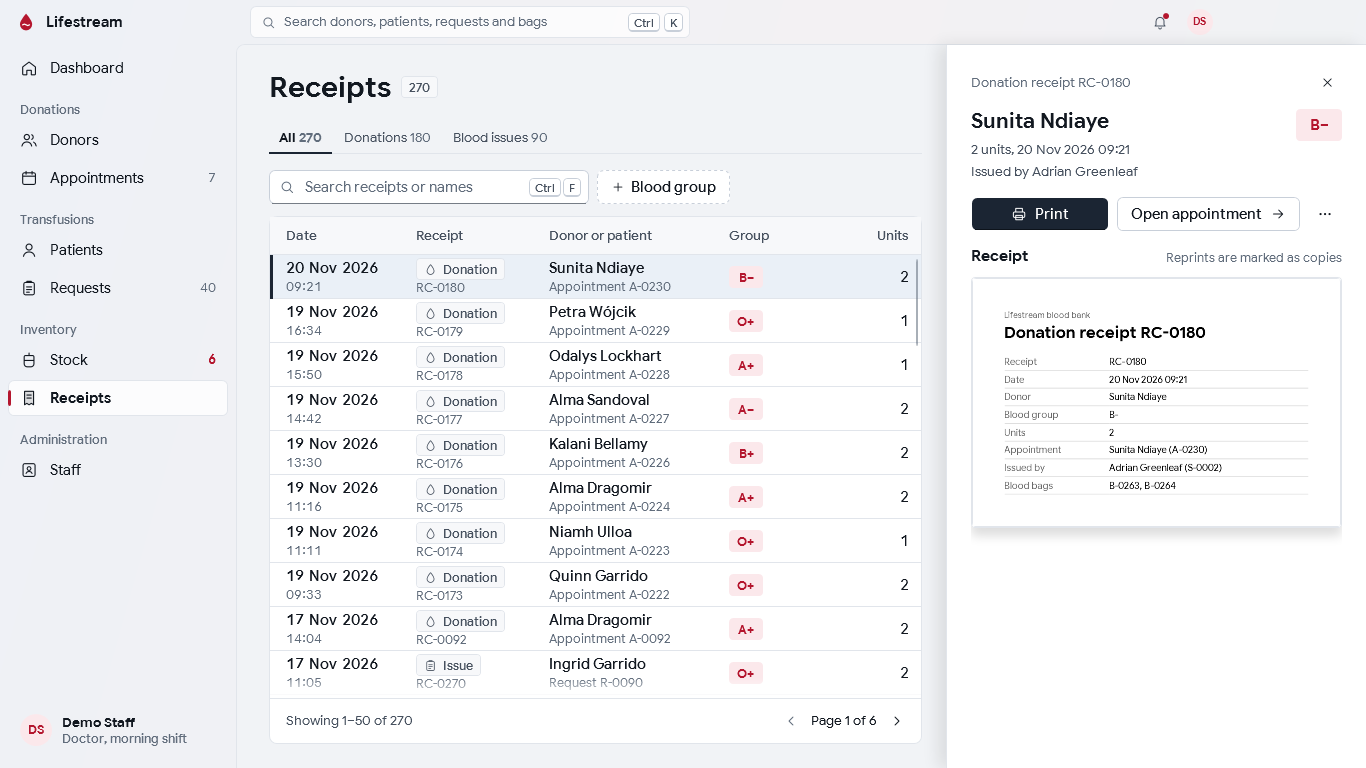
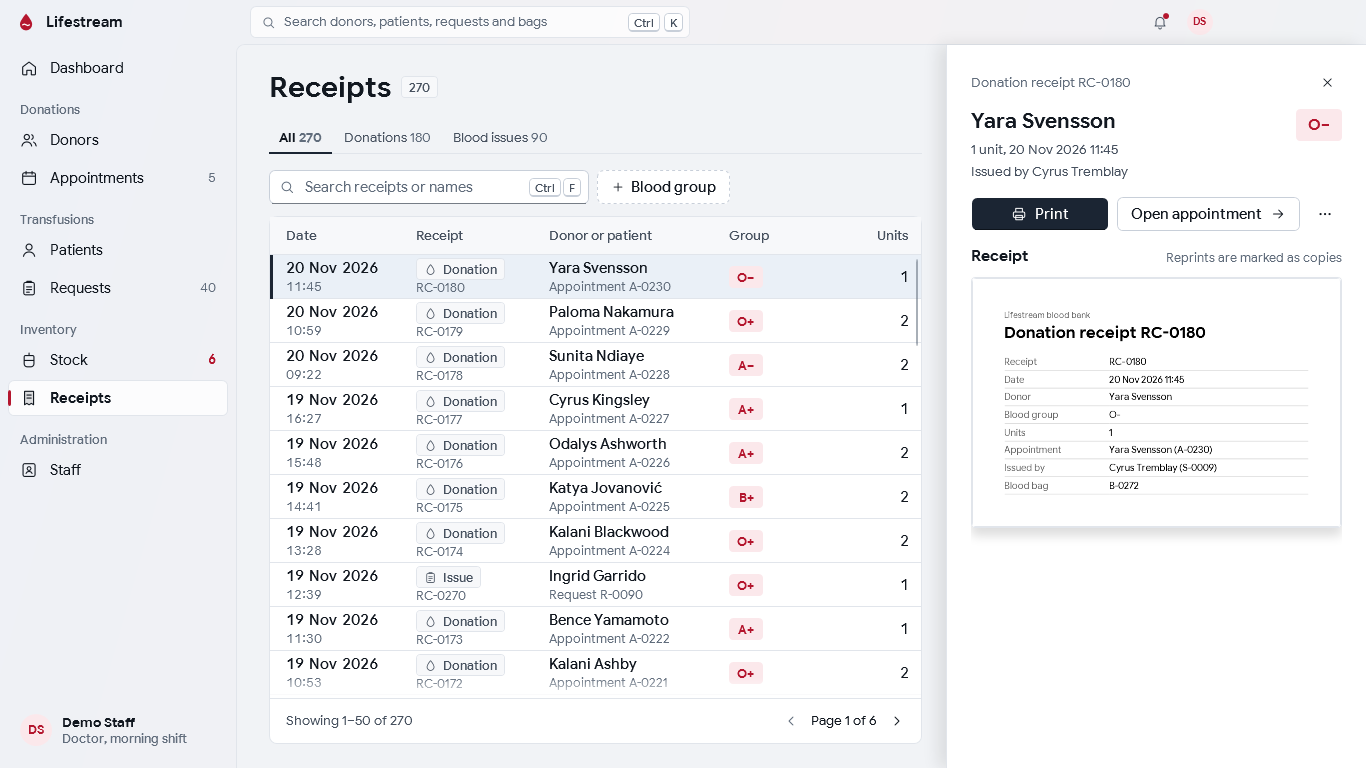
Screenshots from the demo data that keeps the donation rule
README and Store screenshots regenerated with tools/generate-screenshots.ps1
on the 2.1.2 app over the new demo data (100 donors; no donor's donations
closer than 90 days), as the clinic stood at 13:08 UTC on 2026-11-20: three
of today's eight appointments done, five to come.

docs/database.md: today's and tomorrow's donors may also be donors who have
not donated yet.

diff --git a/docs/database.md b/docs/database.md
@@ -199,7 +199,8 @@ All data comes from code, never from a backup.
     appointment is pending. Nothing is done before its time and no row carries a time after the reset, in any time zone. What can happen is the
     reverse: an appointment whose time passes after the reset stays pending until someone records it, as in the app itself.
   - The last appointment of today and of tomorrow belongs to a donor who has never donated; today's and tomorrow's other donors last donated more
-    than 90 days ago, so they are eligible. The totals do not depend on the time of day (`SeedSizes`): today's rows come out of the same counts.
+    than 90 days ago (a few of them not yet either), so they are eligible. The totals do not depend on the time of day (`SeedSizes`): today's rows
+    come out of the same counts.
   - **Nobody breaks the donation rule** (`Eligibility.MinDaysBetweenDonations`, and the age limits). A donor's donations are at least that many days
     apart; every appointment, whatever became of it, is on a day the donor was (or will be) eligible as the API judges a booking; and a donor's open
     bookings keep the same distance from each other. That is why the demo has 100 donors: a year of 180 donations needs more donors than the 40
